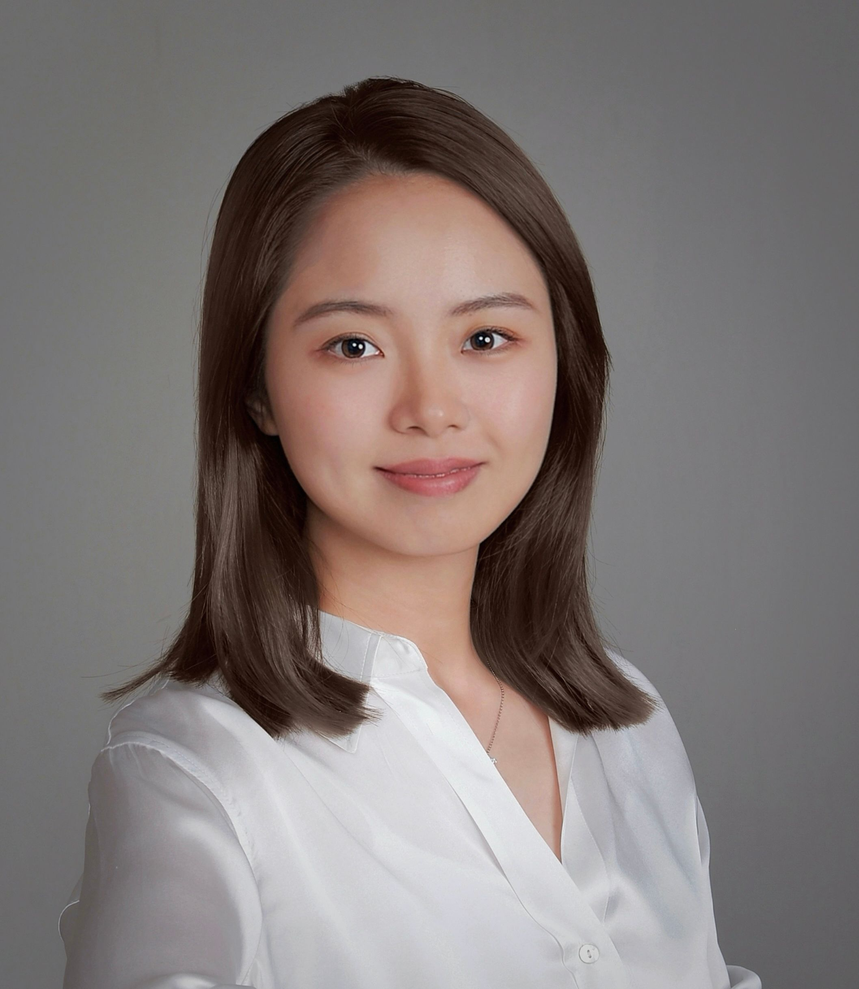
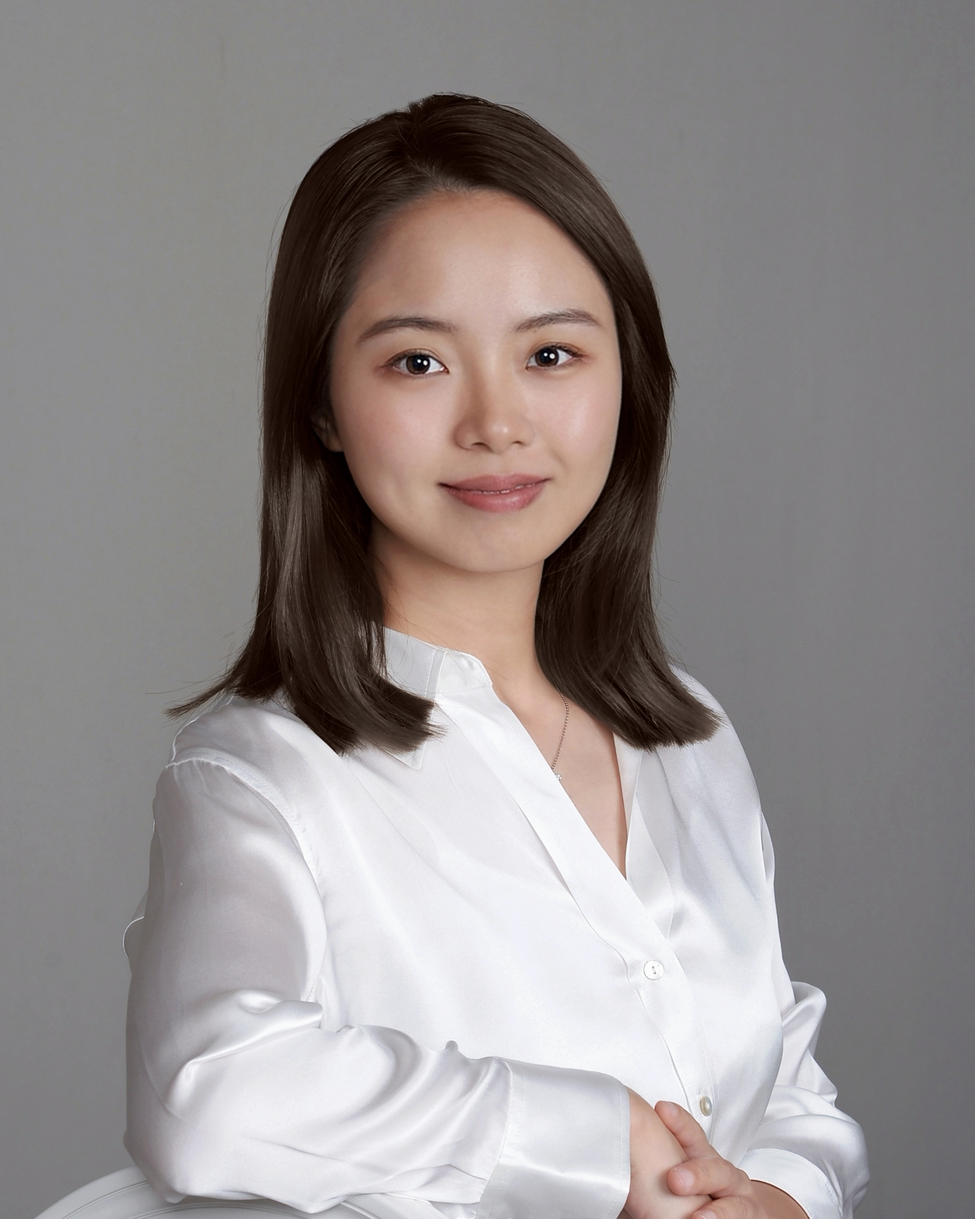
Version change 22/09

diff --git a/_sass/_themes.scss b/_sass/_themes.scss
@@ -12,8 +12,8 @@
   --global-code-bg-color: #{$code-bg-color-light};
   --global-text-color: #{$black-color};
   --global-text-color-light: #{$grey-color};
-  --global-theme-color: #{$purple-color};
-  --global-hover-color: #{$purple-color};
+  --global-theme-color: #98CD00;
+  --global-hover-color:  #98CD00;
   --global-hover-text-color: #{$white-color};
   --global-footer-bg-color: #{$grey-color-dark};
   --global-footer-text-color: #{$grey-color-light};
